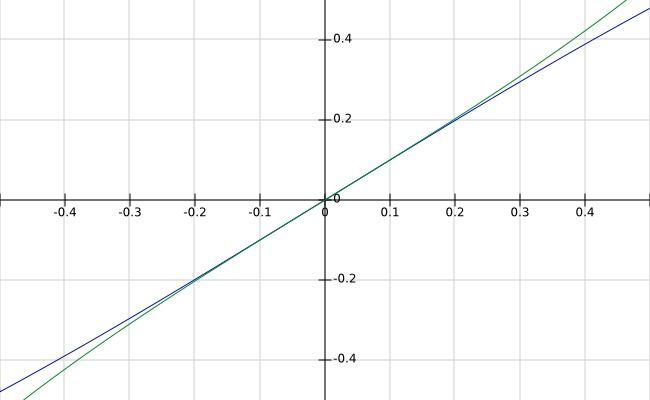
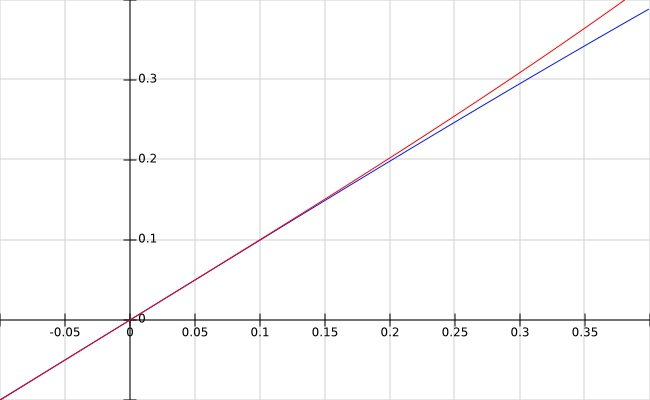
tidy

diff --git a/computing/HowSlideRulesWork.md b/computing/HowSlideRulesWork.md
@@ -450,7 +450,7 @@ To compute $sin(30°)$, we manipulate the slide rule as follows:
 
 To compute $\theta$ in the expression $sin(\theta) = 0.866$, we do the opposite: set the argument $0.866$ on the $C$ scale and read the result $60°$ on the $S$ scale. This computes $\theta = sin^{-1}(0.866) = 60°$.
 
-***red $S$ scale***—The $S$ scale is graduated from left to right, in black, for $sin$ between the angles $5.73°$ and $90°$. But since $cos(\theta) = sin(90° - \theta)$, the $cos$ scale is readily combined into the $S$ scale, but in the reverse direction and marked in red. Hence, $cos(\theta)$ is computed using the same procedure, but by reading the red scale.
+***red $S$ scale***—The $S$ scale is graduated from left to right, in black, for $sin$ between the angles $5.73°$ and $90°$. But since $cos(\theta) = sin(90° - \theta)$, the $cos$ scale is readily combined into the $S$ scale, but in the reverse direction and marked in red. Hence, $cos(\theta)$ is computed using the same procedure, but by reading the red $\color{red}{S}$ scale.
 
 In the plot below, the red curve is $cos$ and the blue is $cos^{-1}$.
 
@@ -480,13 +480,13 @@ In the plot below, the red curve is $cot$ and the green is $cot^{-1}$.
 
 ![cot](./figures/SlideRules/plot-cot.jpg)
 
-***$ST$ or $SRT$ scale***—The $ST$ scale is used to compute $sin$ and $tan$ for small angles in the range $[0.573°, 5.73°]$, or in radians $[0.01, 0.1]$, because $sin(\theta) \approx tan(\theta)$ for small angles. For angles smaller than $0.573°$, we exploit another approximation: $sin(\theta) \approx tan(\theta) \approx \theta$, where the angle $\theta$ is measured in radians. For this reason, some manufacturers, like K&E, label the $ST$ scale as $SRT$ for $sin$-$rad$-$tan$.
+***$ST$ or $SRT$ scale***—The $ST$ scale is used to compute $sin$ and $tan$ for small angles in the range $[0.573°, 5.73°] = [0.01, 0.1]\ rad$, because $sin(\theta) \approx tan(\theta)$ for small angles. For such small angles, we may exploit another approximation: $sin(\theta) \approx tan(\theta) \approx \theta$, where the angle $\theta$ is measured in radians. For this reason, some manufacturers, like K&E, label the $ST$ scale as $SRT$ for $sin$-$rad$-$tan$.
 
-In the plot below, the blue curve is $sin$ and the green is $tan$. These two curves are indistinguishable when $\theta ∈ [0.01, 0.1]$ radians.
+In the plot below, the blue curve is $sin$ and the red is $tan$. These two curves are indistinguishable when $\theta ∈ [0.0, 0.1]\ rad$.
 
 ![sin-tan](./figures/SlideRules/plot-sin-tan.jpg)
 
-It is possible to chain trigonometric and arithmetic calculations on the slide rule. This is one of the reasons why calculating with the slide rule is fast. Readers interested in these details should read the manuals listed in the resources section at the end of the article.
+It is possible to chain trigonometric and arithmetic calculations on the slide rule. This is one of the reasons why calculating with the slide rule was much faster than using tables. Those who are interested in these details should read the user's manuals listed in the resources section at the end of the article.
 
 # MAINTENANCE
 
